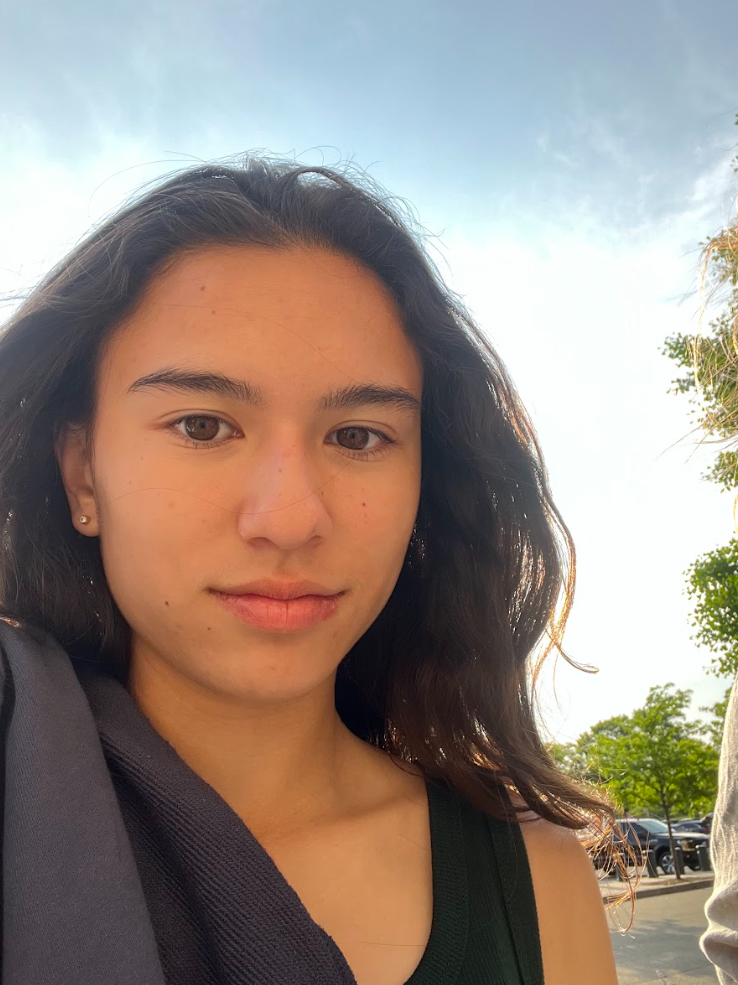
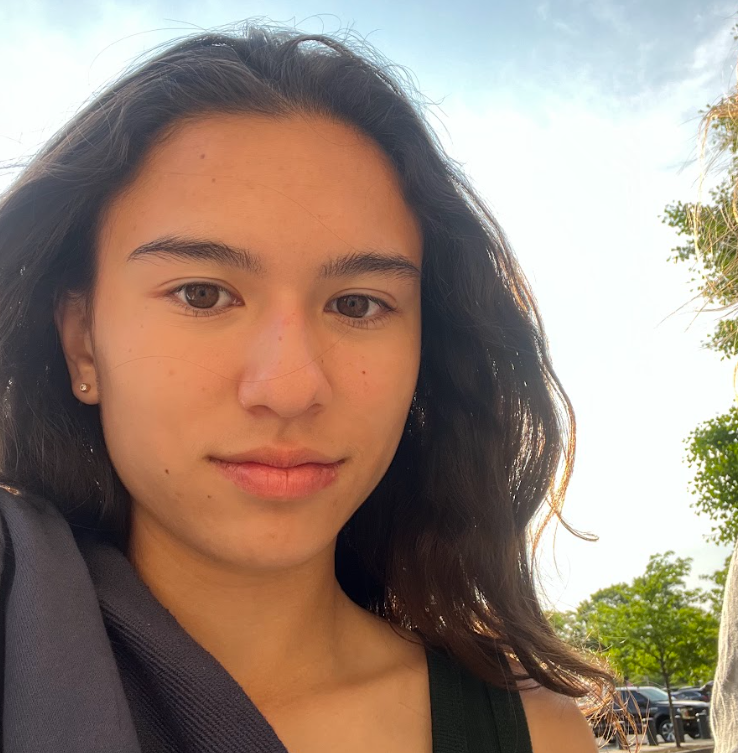
updated images

diff --git a/app/team/MemberDepartment.js b/app/team/MemberDepartment.js
@@ -19,9 +19,9 @@ export default function MemberDepartment({ name, members }) {
 
       <hr className="my-[10px]" />
 
-      <div className="flex flex-wrap justify-center pt-[50px]">
+      <div className="flex flex-wrap justify-center pt-[10px]">
         {members.map((member, i) => (
-          <div className="mx-[40px]" key={i}>
+          <div className="mx-[40px] mt-[40px]" key={i}>
             <MemberCard {...member} />
           </div>
         ))}

diff --git a/app/team/MemberCard.js b/app/team/MemberCard.js
@@ -8,7 +8,7 @@ export default function MemberCard({ name, title, image, bio }) {
       <div className="absolute w-[310px] h-[310px] overflow-hidden">
         <img
           className="rounded-lg object-cover hover:opacity-0"
-          src={/*image*/ "/missing.png"}
+          src={image}
         />
       </div>
 
